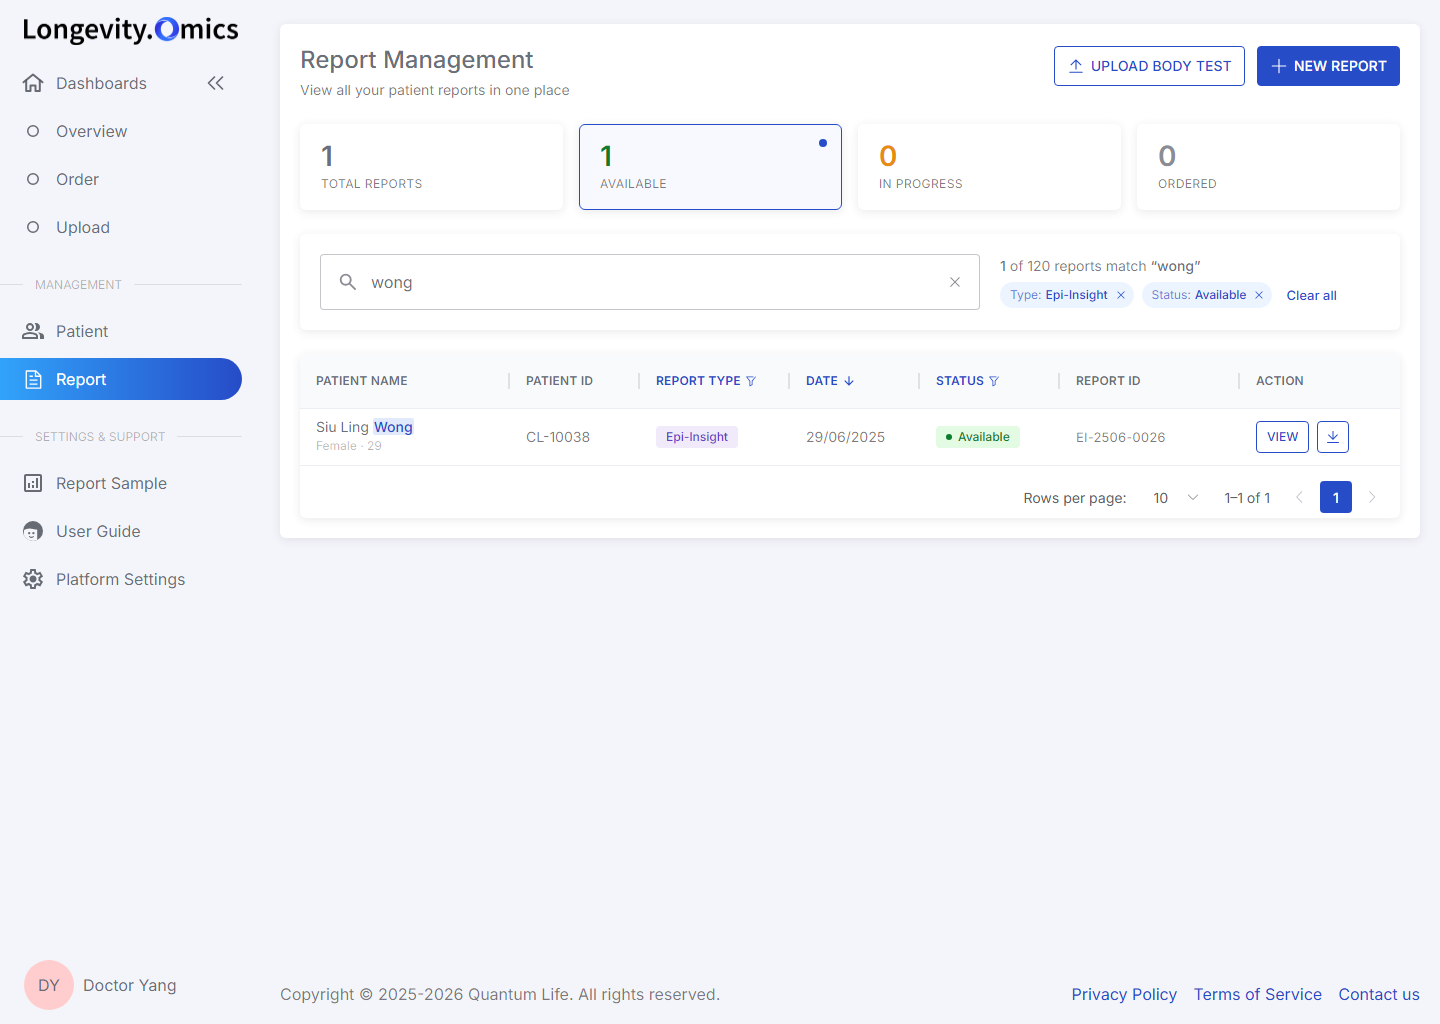
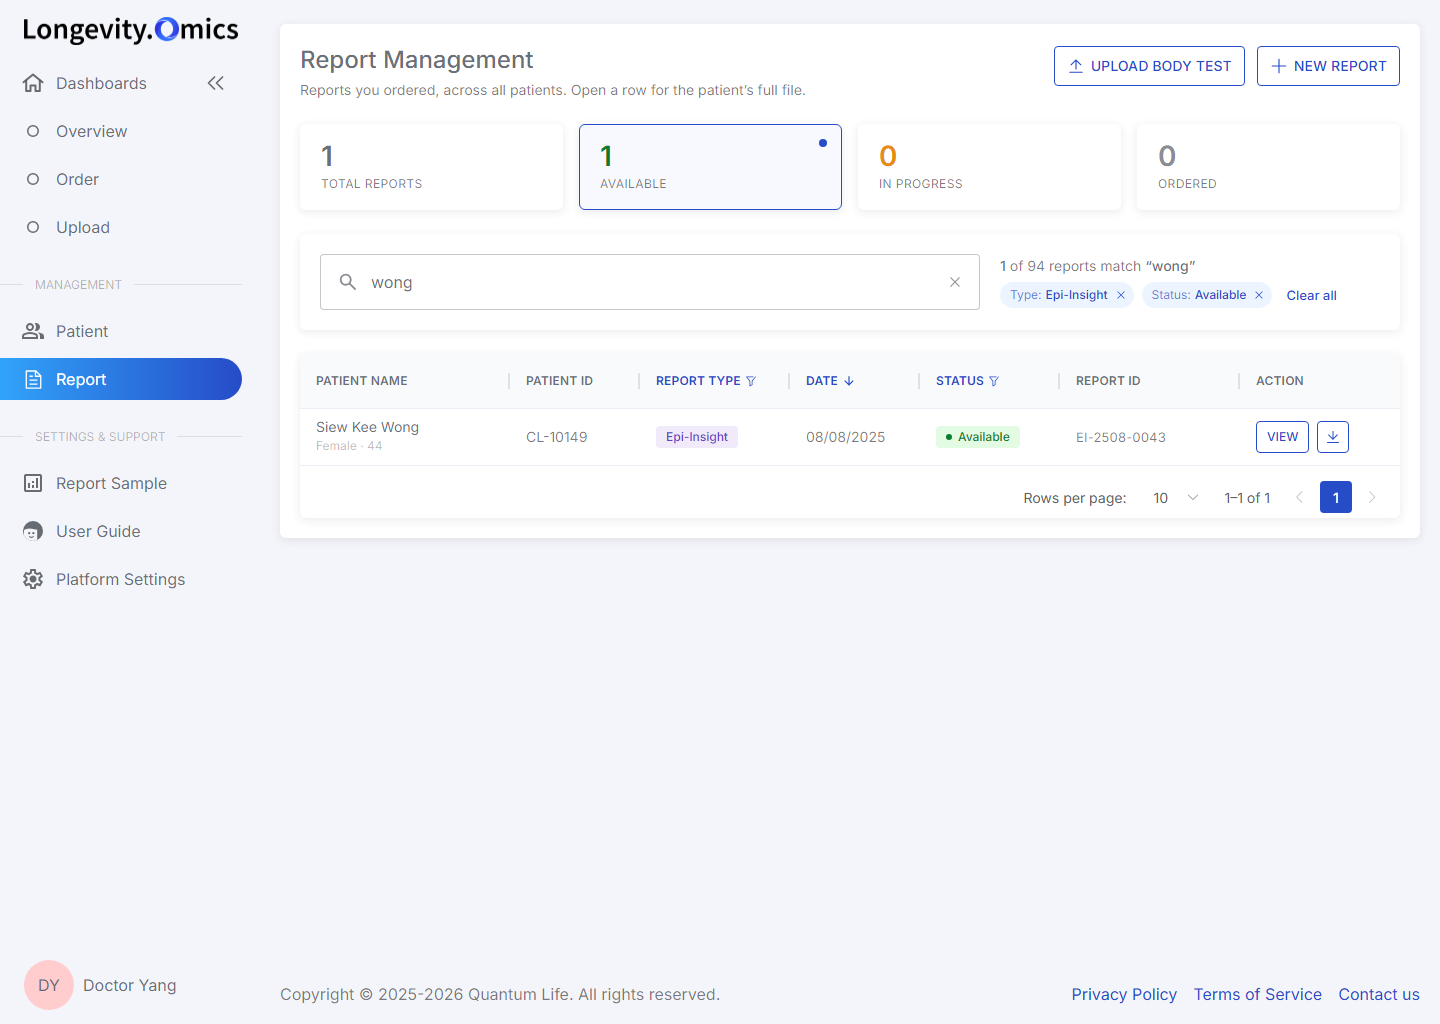
Remove match highlighting in search results (fuzzy matching unchanged)

diff --git a/index.html b/index.html
@@ -150,7 +150,6 @@ tbody tr:last-child td{border-bottom:1px solid var(--border-light)}
 .name-cell .enter svg{width:26px;height:20px;display:block}
 .two-line{line-height:18px}
 .two-line .sec{font-size:12px;color:var(--text-3);margin-top:1px}
-mark{background:#E1E9FC;color:var(--primary);font-weight:500;border-radius:2px;padding:0 1px}
 .tag{display:inline-flex;align-items:center;height:22px;padding:0 10px;border-radius:4px;font-size:12px;line-height:1;font-weight:500;white-space:nowrap}
 .tag.gd{color:#264CC8;background:#ECF5FF}
 .tag.ei{color:#6B3FC9;background:#F0EAFB}
@@ -496,16 +495,7 @@ const ICON = {
 /* ---------- search helpers: tokens, any order, case-insensitive, substring ---------- */
 function tokens(q){ return q.toLowerCase().trim().split(/\s+/).filter(Boolean); }
 function matches(hay, toks){ const h = hay.toLowerCase(); return toks.every(t => h.includes(t)); }
-function hl(text, toks){
-  text = String(text); if (!toks.length) return esc(text);
-  const low = text.toLowerCase(); const ranges = [];
-  toks.forEach(t => { let i = 0; while ((i = low.indexOf(t, i)) !== -1) { ranges.push([i, i + t.length]); i += t.length; } });
-  if (!ranges.length) return esc(text);
-  ranges.sort((a, b) => a[0] - b[0]);
-  const merged = [ranges[0]]; for (const r of ranges.slice(1)) { const l = merged[merged.length-1]; if (r[0] <= l[1]) l[1] = Math.max(l[1], r[1]); else merged.push(r); }
-  let out = "", p = 0; merged.forEach(([a, b]) => { out += esc(text.slice(p, a)) + "<mark>" + esc(text.slice(a, b)) + "</mark>"; p = b; });
-  return out + esc(text.slice(p));
-}
+function hl(text, toks){ return esc(text); }   // match highlighting removed at the team's request; fuzzy matching itself is unchanged (see matches())
 
 /* ---------- generic pieces ---------- */
 let toastT; function toast(msg){ const t = $("#toast"); t.textContent = msg; t.classList.add("show"); clearTimeout(toastT); toastT = setTimeout(() => t.classList.remove("show"), 2200); }
